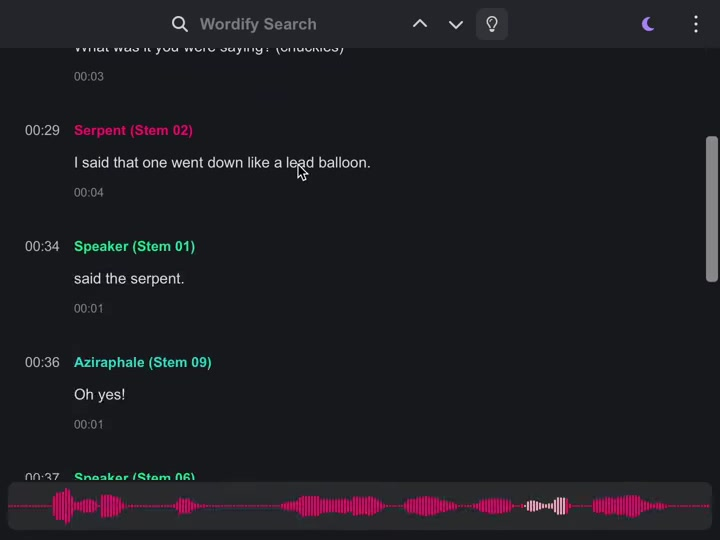
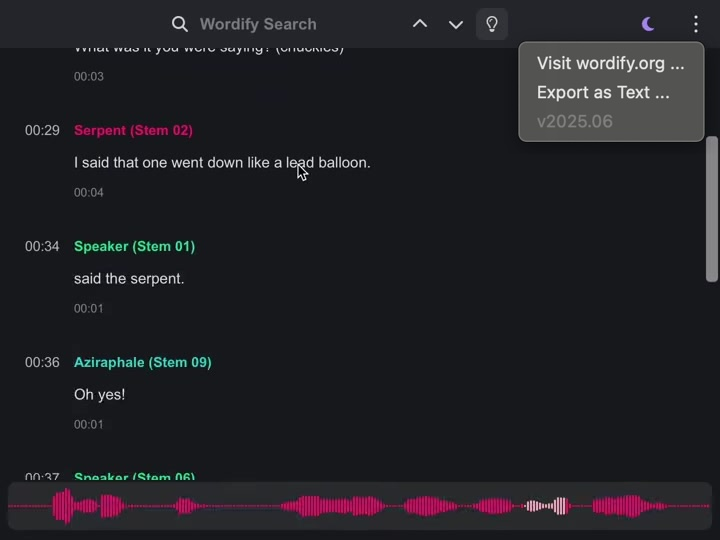
promote text export feature

Changed region(s): [[0.7028, 0.0593, 0.9778, 0.2667]]

diff --git a/index.html b/index.html
@@ -166,12 +166,13 @@
                             <img src="assets/features/wordify_feature_analyse.jpg" loading="lazy">
                         </div>
                         <div class="card-content">
-                            <h1 class="title is-3">Sleek UI Design</h1>
+                            <h1 class="title is-3">Easy Workflow</h1>
                             <div class="content is-size-5">
                                 <ul>
-                                    <li>Light and dark scheme for best readibility in all environments</li>
+                                    <li>Simple text export of transcripts</li>
                                     <li>Non-blocking user interface through background analysis</li>
                                     <li>Optimized for Apple Silicon</li>
+                                    <li>Light and dark scheme for best readibility in all environments</li>
                                 </ul>
                             </div>
                         </div>
